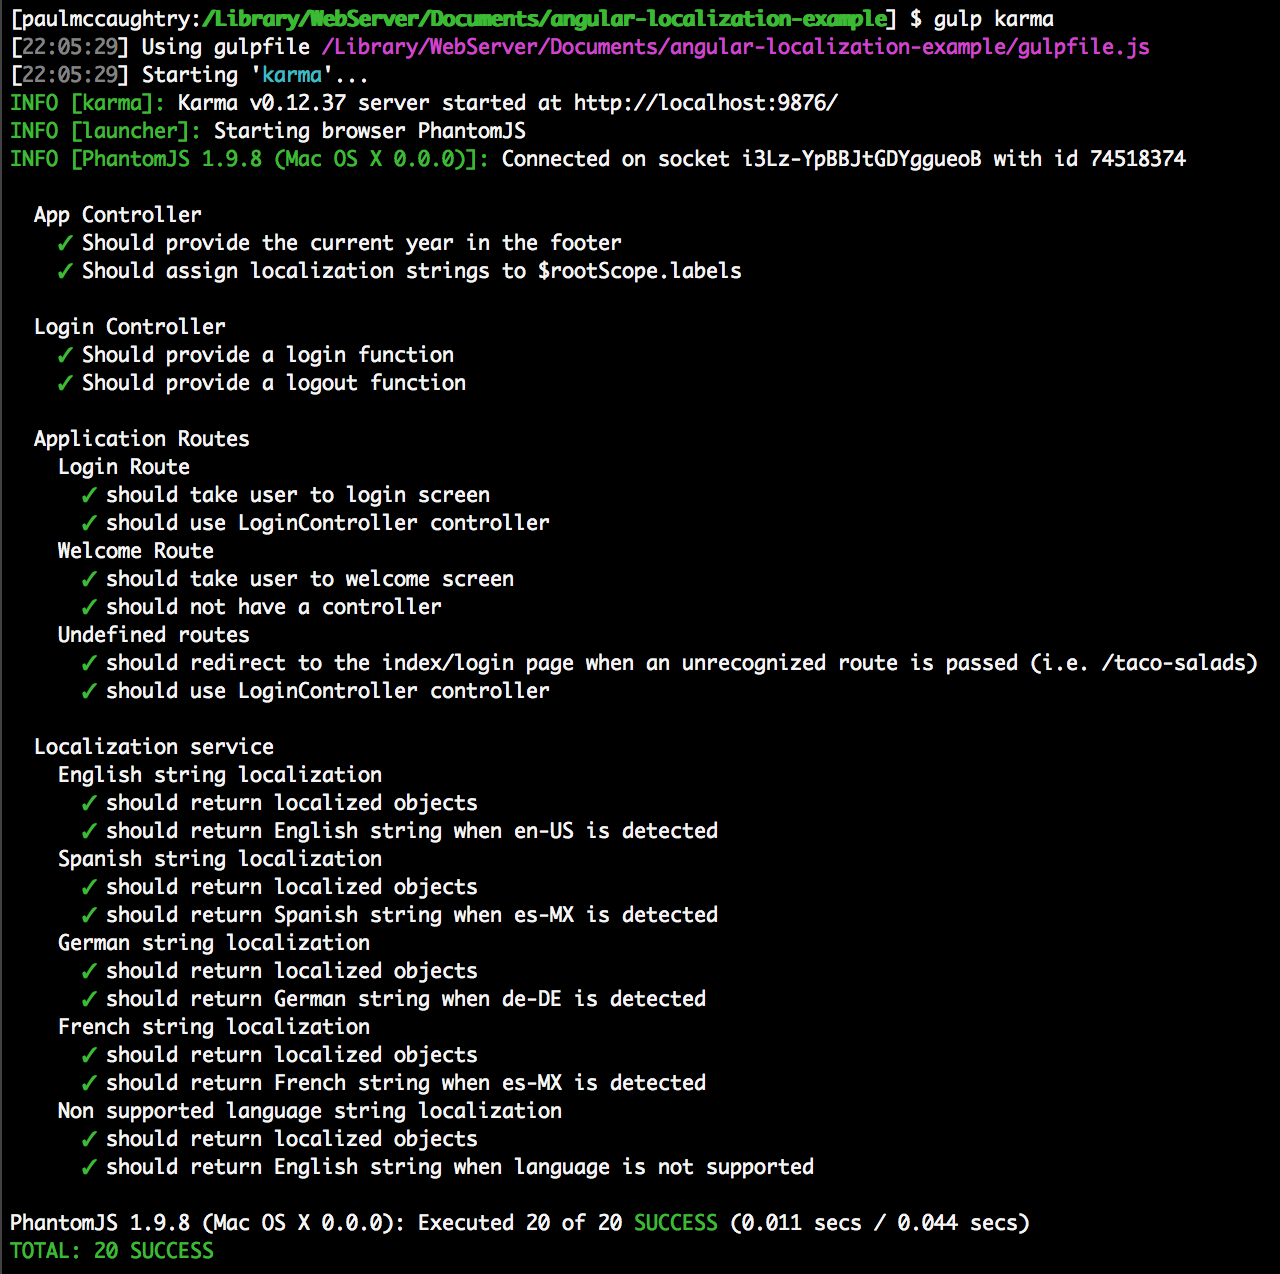
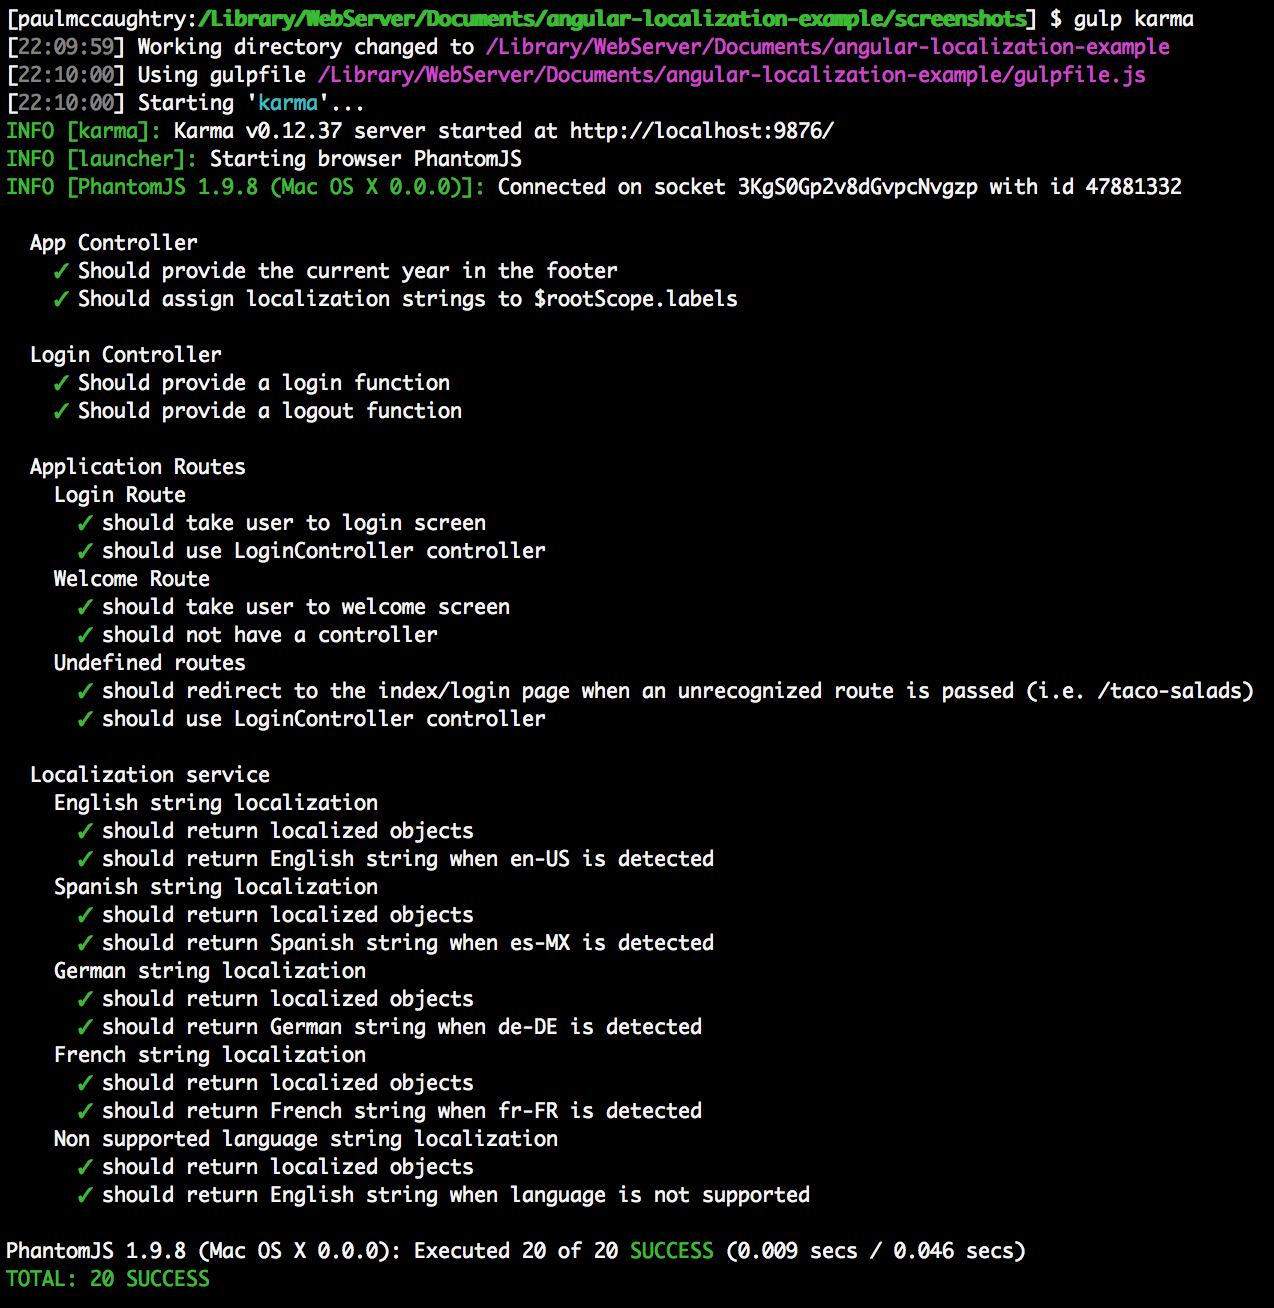
Updated unit test label

Changed region(s): [[0.0, 0.0, 0.9796, 1.0]]

diff --git a/test/unit/services/localization.spec.js b/test/unit/services/localization.spec.js
@@ -187,7 +187,7 @@ describe('Localization service', function () {
             expect(Object.keys(scope.labels).length).toEqual(2);
         });
 
-        it('should return French string when es-MX is detected', function () {
+        it('should return French string when fr-FR is detected', function () {
             expect(file).toBe('localization/labels.fr-FR.json');
         });
     });
